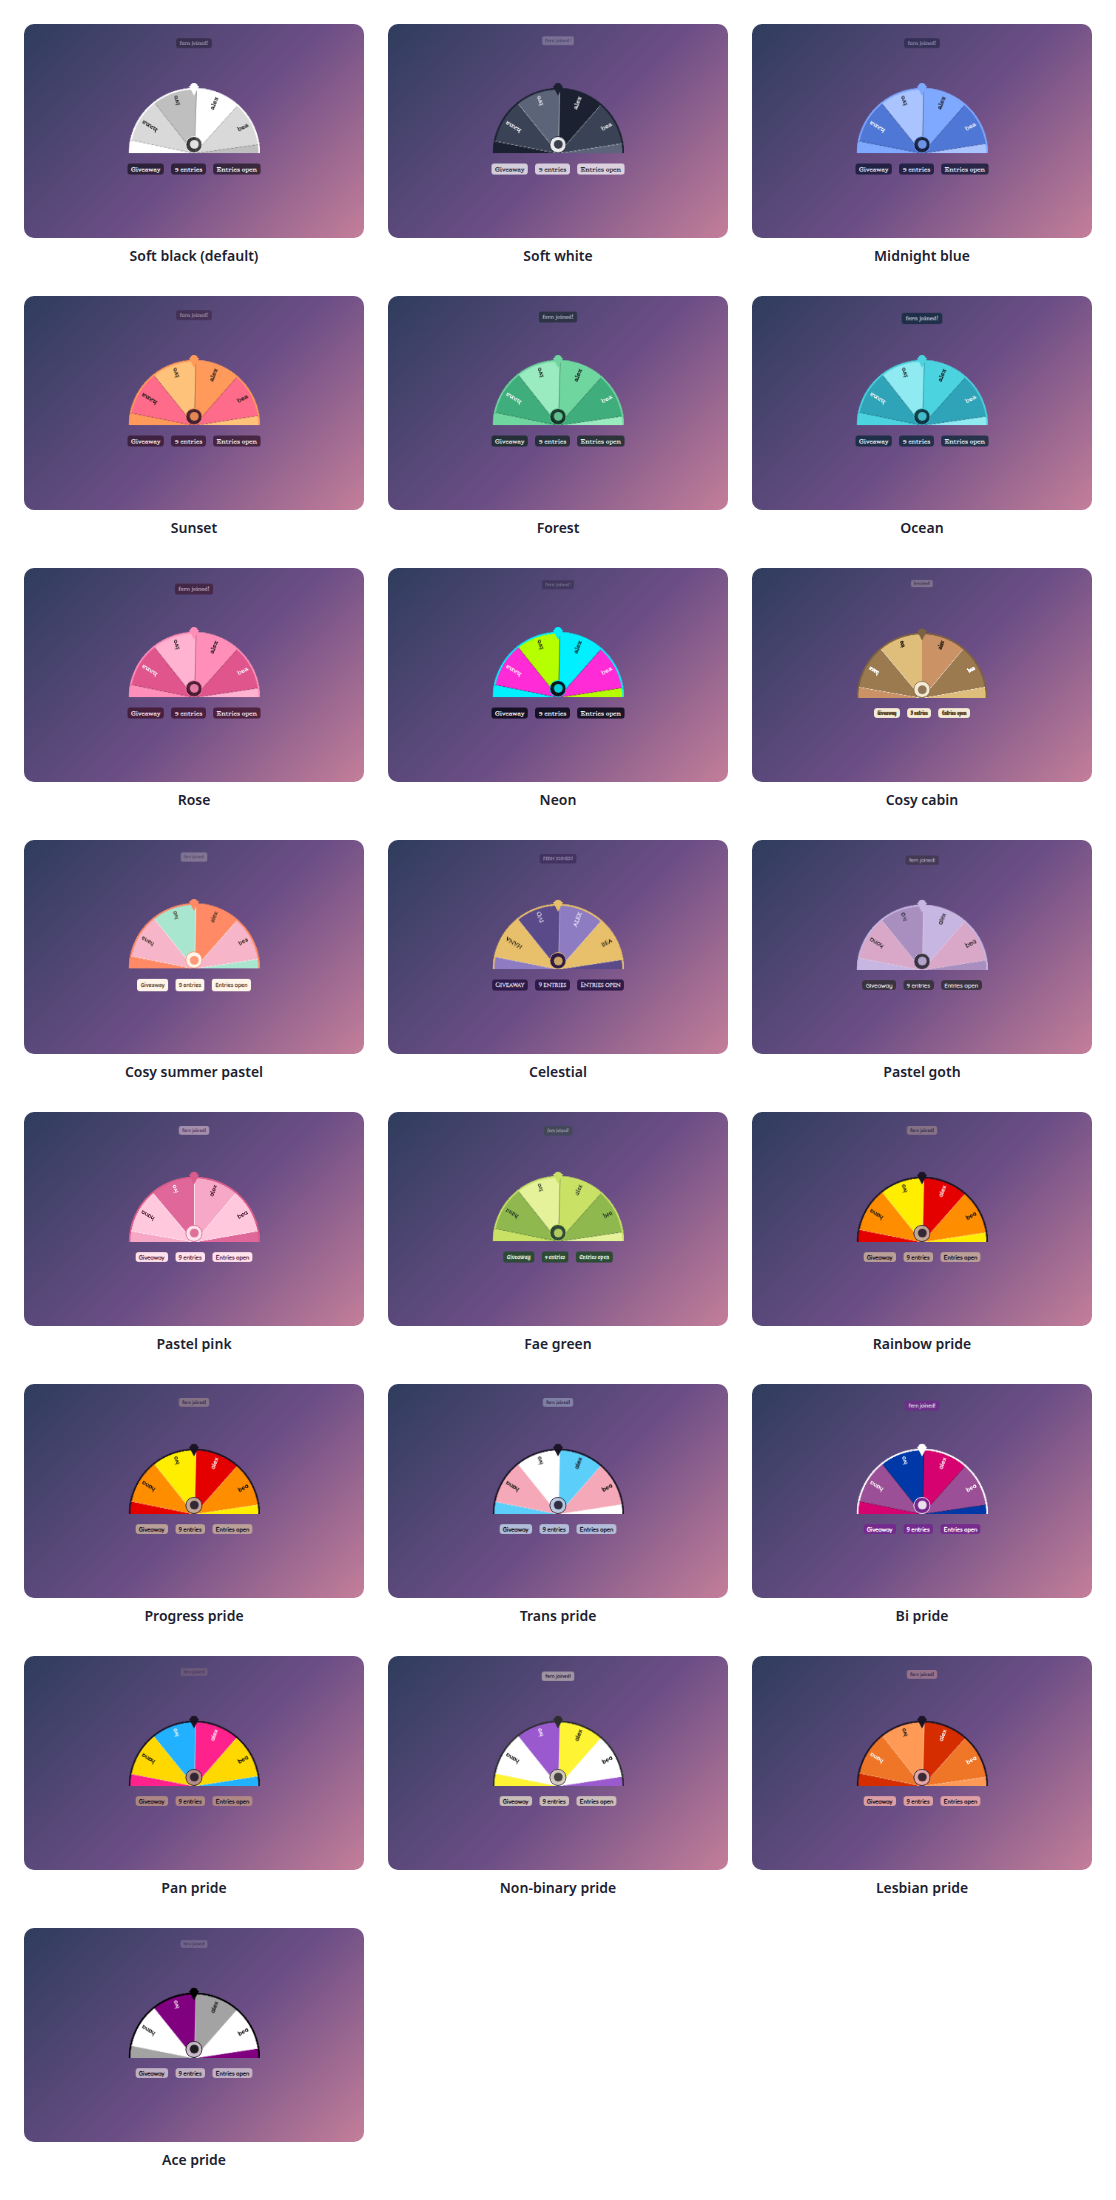
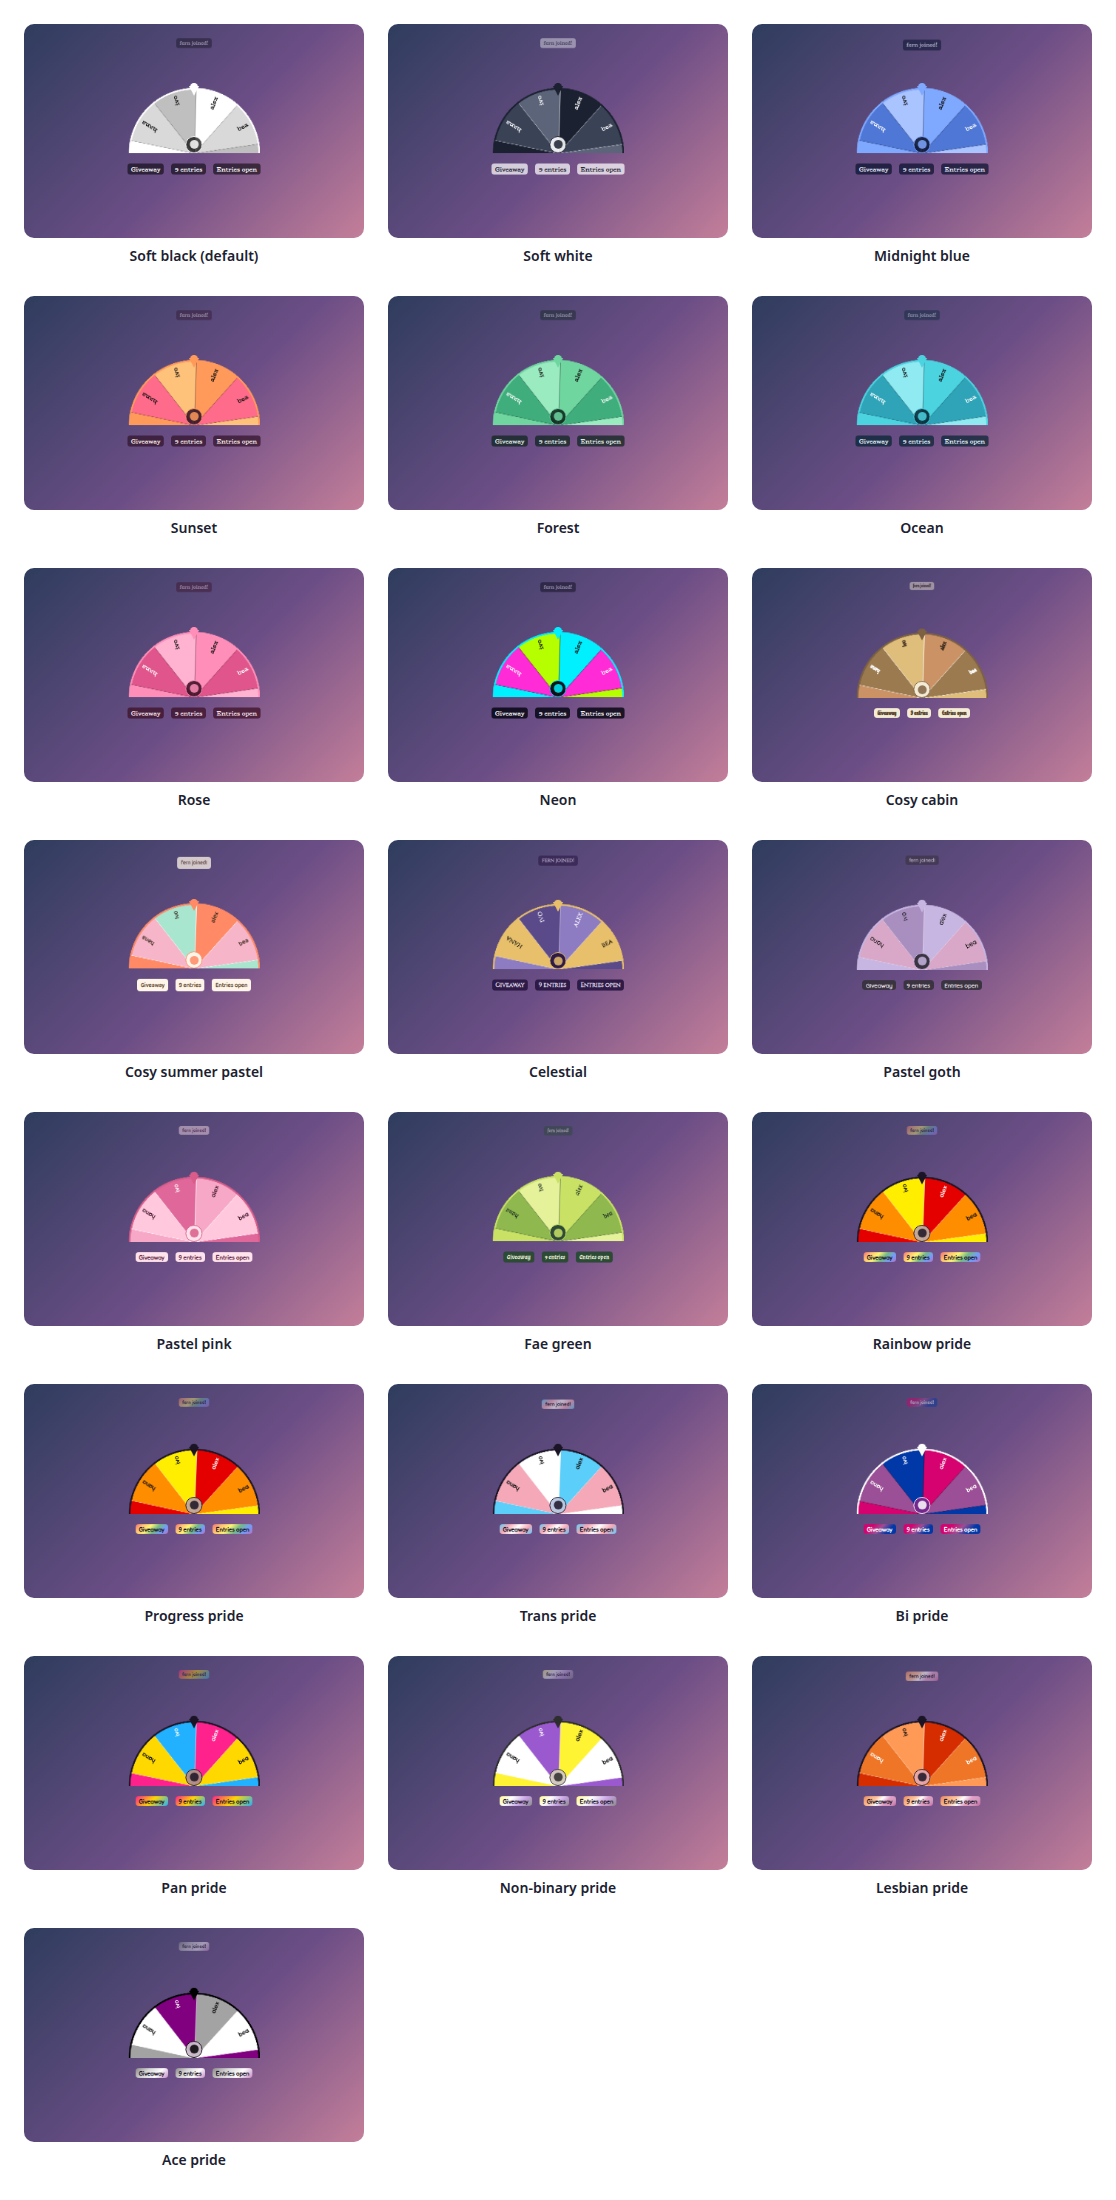
Put the pride flags behind the wheel's panels and on its goal bar
The pride presets already gave the wheel its flag as slices. Now the pills, the toast and the winner card wear the flag as their background, with the text kept readable, and the goal bar is striped like the flag with a thin outline so a pale stripe keeps its edge. Every other preset keeps its plain panels and its two colour goal bar, and the tests check both. The gallery shows it.

diff --git a/widget/widget.js b/widget/widget.js
@@ -107,48 +107,64 @@
       bg: "rgba(194, 168, 154, 0.9)", text: "#1A1426", accent: "#1A1426", pointer: "#1A1426",
       segs: ["#E50000", "#FF8D00", "#FFEE00", "#028121", "#004CFF", "#770088"],
       font: "Fredoka",
+      flag: ["#E50000", "#FF8D00", "#FFEE00", "#028121", "#004CFF", "#770088"],
+      bgimg: "linear-gradient(rgba(255, 255, 255, 0.45), rgba(255, 255, 255, 0.45)), linear-gradient(135deg, #E50000, #FF8D00, #FFEE00, #028121, #004CFF, #770088)",
       parts: {"pillBg": "rgba(194, 168, 154, 0.9)", "pill": "#1A1426", "toastBg": "rgba(194, 168, 154, 0.96)", "toast": "#1A1426", "cardBg": "rgba(194, 168, 154, 0.96)", "card": "#1A1426", "eyebrowBg": "#1A1426", "eyebrow": "#FFFFFF", "idle": "#1A1426", "goal": "#1A1426", "goalTrack": "rgba(26, 20, 38, 0.34)", "goalFrom": "#E50000", "goalTo": "#004CFF", "hub": "rgba(194, 168, 154, 0.96)", "hubRing": "#1A1426", "spent": "#B3123A", "refused": "#B3123A", "labelDark": "#111111", "labelLight": "#FFFFFF", "divider": "rgba(255, 255, 255, 0.45)", "border": "transparent"}
     },
     progress: {
       bg: "rgba(194, 168, 154, 0.9)", text: "#1A1426", accent: "#1A1426", pointer: "#1A1426",
       segs: ["#E50000", "#FF8D00", "#FFEE00", "#028121", "#004CFF", "#770088"],
       font: "Fredoka",
+      flag: ["#E50000", "#FF8D00", "#FFEE00", "#028121", "#004CFF", "#770088"],
+      bgimg: "linear-gradient(rgba(255, 255, 255, 0.45), rgba(255, 255, 255, 0.45)), linear-gradient(135deg, #E50000, #FF8D00, #FFEE00, #028121, #004CFF, #770088)",
       parts: {"pillBg": "rgba(194, 168, 154, 0.9)", "pill": "#1A1426", "toastBg": "rgba(194, 168, 154, 0.96)", "toast": "#1A1426", "cardBg": "rgba(194, 168, 154, 0.96)", "card": "#1A1426", "eyebrowBg": "#1A1426", "eyebrow": "#FFFFFF", "idle": "#1A1426", "goal": "#1A1426", "goalTrack": "rgba(26, 20, 38, 0.34)", "goalFrom": "#F5A9B8", "goalTo": "#5BCEFA", "hub": "rgba(194, 168, 154, 0.96)", "hubRing": "#1A1426", "spent": "#B3123A", "refused": "#B3123A", "labelDark": "#111111", "labelLight": "#FFFFFF", "divider": "rgba(255, 255, 255, 0.45)", "border": "transparent"}
     },
     trans: {
       bg: "rgba(185, 201, 225, 0.9)", text: "#1A1426", accent: "#1A1426", pointer: "#1A1426",
       segs: ["#5BCEFA", "#F5A9B8", "#FFFFFF", "#5BCEFA", "#F5A9B8", "#FFFFFF"],
       font: "Fredoka",
+      flag: ["#5BCEFA", "#F5A9B8", "#FFFFFF", "#F5A9B8", "#5BCEFA"],
+      bgimg: "linear-gradient(135deg, #5BCEFA, #F5A9B8, #FFFFFF, #F5A9B8, #5BCEFA)",
       parts: {"pillBg": "rgba(185, 201, 225, 0.9)", "pill": "#1A1426", "toastBg": "rgba(185, 201, 225, 0.96)", "toast": "#1A1426", "cardBg": "rgba(185, 201, 225, 0.96)", "card": "#1A1426", "eyebrowBg": "#1A1426", "eyebrow": "#FFFFFF", "idle": "#1A1426", "goal": "#1A1426", "goalTrack": "rgba(26, 20, 38, 0.34)", "goalFrom": "#5BCEFA", "goalTo": "#F5A9B8", "hub": "rgba(185, 201, 225, 0.96)", "hubRing": "#1A1426", "spent": "#B3123A", "refused": "#B3123A", "labelDark": "#111111", "labelLight": "#FFFFFF", "divider": "rgba(255, 255, 255, 0.45)", "border": "transparent"}
     },
     bi: {
       bg: "rgba(117, 39, 142, 0.9)", text: "#FFFFFF", accent: "#FFFFFF", pointer: "#FFFFFF",
       segs: ["#D60270", "#9B4F96", "#0038A8", "#D60270", "#9B4F96", "#0038A8"],
       font: "Fredoka",
+      flag: ["#D60270", "#D60270", "#9B4F96", "#0038A8", "#0038A8"],
+      bgimg: "linear-gradient(135deg, #D60270, #D60270, #9B4F96, #0038A8, #0038A8)",
       parts: {"pillBg": "rgba(117, 39, 142, 0.9)", "pill": "#FFFFFF", "toastBg": "rgba(117, 39, 142, 0.96)", "toast": "#FFFFFF", "cardBg": "rgba(117, 39, 142, 0.96)", "card": "#FFFFFF", "eyebrowBg": "#FFFFFF", "eyebrow": "#1A1426", "idle": "#FFFFFF", "goal": "#FFFFFF", "goalTrack": "rgba(255, 255, 255, 0.24)", "goalFrom": "#D60270", "goalTo": "#0038A8", "hub": "rgba(117, 39, 142, 0.96)", "hubRing": "#FFFFFF", "spent": "#FF6B6B", "refused": "#FF6B6B", "labelDark": "#111111", "labelLight": "#FFFFFF", "divider": "rgba(0, 0, 0, 0.3)", "border": "transparent"}
     },
     pan: {
       bg: "rgba(181, 142, 132, 0.9)", text: "#1A1426", accent: "#1A1426", pointer: "#1A1426",
       segs: ["#FF218C", "#FFD800", "#21B1FF", "#FF218C", "#FFD800", "#21B1FF"],
       font: "Fredoka",
+      flag: ["#FF218C", "#FFD800", "#21B1FF"],
+      bgimg: "linear-gradient(135deg, #FF218C, #FFD800, #21B1FF)",
       parts: {"pillBg": "rgba(181, 142, 132, 0.9)", "pill": "#1A1426", "toastBg": "rgba(181, 142, 132, 0.96)", "toast": "#1A1426", "cardBg": "rgba(181, 142, 132, 0.96)", "card": "#1A1426", "eyebrowBg": "#1A1426", "eyebrow": "#FFFFFF", "idle": "#1A1426", "goal": "#1A1426", "goalTrack": "rgba(26, 20, 38, 0.34)", "goalFrom": "#FF218C", "goalTo": "#21B1FF", "hub": "rgba(181, 142, 132, 0.96)", "hubRing": "#1A1426", "spent": "#B3123A", "refused": "#B3123A", "labelDark": "#111111", "labelLight": "#FFFFFF", "divider": "rgba(255, 255, 255, 0.45)", "border": "transparent"}
     },
     enby: {
       bg: "rgba(212, 202, 192, 0.9)", text: "#1A1426", accent: "#2D2D2D", pointer: "#2D2D2D",
       segs: ["#FFF433", "#FFFFFF", "#9B59D0", "#2D2D2D", "#FFF433", "#FFFFFF"],
       font: "Fredoka",
+      flag: ["#FFF433", "#FFFFFF", "#9B59D0", "#2D2D2D"],
+      bgimg: "linear-gradient(rgba(255, 255, 255, 0.45), rgba(255, 255, 255, 0.45)), linear-gradient(135deg, #FFF433, #FFFFFF, #9B59D0, #2D2D2D)",
       parts: {"pillBg": "rgba(212, 202, 192, 0.9)", "pill": "#1A1426", "toastBg": "rgba(212, 202, 192, 0.96)", "toast": "#1A1426", "cardBg": "rgba(212, 202, 192, 0.96)", "card": "#1A1426", "eyebrowBg": "#2D2D2D", "eyebrow": "#FFFFFF", "idle": "#1A1426", "goal": "#1A1426", "goalTrack": "rgba(26, 20, 38, 0.34)", "goalFrom": "#FFF433", "goalTo": "#9B59D0", "hub": "rgba(212, 202, 192, 0.96)", "hubRing": "#2D2D2D", "spent": "#B3123A", "refused": "#B3123A", "labelDark": "#111111", "labelLight": "#FFFFFF", "divider": "rgba(255, 255, 255, 0.45)", "border": "transparent"}
     },
     lesbian: {
       bg: "rgba(232, 167, 169, 0.9)", text: "#1A1426", accent: "#1A1426", pointer: "#1A1426",
       segs: ["#D52D00", "#EF7627", "#FF9A56", "#FFFFFF", "#D162A4", "#B55690"],
       font: "Fredoka",
+      flag: ["#D52D00", "#EF7627", "#FF9A56", "#FFFFFF", "#D162A4", "#B55690", "#A30262"],
+      bgimg: "linear-gradient(rgba(255, 255, 255, 0.40), rgba(255, 255, 255, 0.40)), linear-gradient(135deg, #D52D00, #EF7627, #FF9A56, #FFFFFF, #D162A4, #B55690, #A30262)",
       parts: {"pillBg": "rgba(232, 167, 169, 0.9)", "pill": "#1A1426", "toastBg": "rgba(232, 167, 169, 0.96)", "toast": "#1A1426", "cardBg": "rgba(232, 167, 169, 0.96)", "card": "#1A1426", "eyebrowBg": "#1A1426", "eyebrow": "#FFFFFF", "idle": "#1A1426", "goal": "#1A1426", "goalTrack": "rgba(26, 20, 38, 0.34)", "goalFrom": "#D52D00", "goalTo": "#A30262", "hub": "rgba(232, 167, 169, 0.96)", "hubRing": "#1A1426", "spent": "#B3123A", "refused": "#B3123A", "labelDark": "#111111", "labelLight": "#FFFFFF", "divider": "rgba(255, 255, 255, 0.45)", "border": "transparent"}
     },
     ace: {
       bg: "rgba(202, 187, 202, 0.9)", text: "#1A1426", accent: "#000000", pointer: "#000000",
       segs: ["#A3A3A3", "#FFFFFF", "#800080", "#000000", "#A3A3A3", "#FFFFFF"],
       font: "Fredoka",
+      flag: ["#000000", "#A3A3A3", "#FFFFFF", "#800080"],
+      bgimg: "linear-gradient(rgba(255, 255, 255, 0.55), rgba(255, 255, 255, 0.55)), linear-gradient(135deg, #000000, #A3A3A3, #FFFFFF, #800080)",
       parts: {"pillBg": "rgba(202, 187, 202, 0.9)", "pill": "#1A1426", "toastBg": "rgba(202, 187, 202, 0.96)", "toast": "#1A1426", "cardBg": "rgba(202, 187, 202, 0.96)", "card": "#1A1426", "eyebrowBg": "#000000", "eyebrow": "#FFFFFF", "idle": "#1A1426", "goal": "#1A1426", "goalTrack": "rgba(26, 20, 38, 0.34)", "goalFrom": "#A3A3A3", "goalTo": "#800080", "hub": "rgba(202, 187, 202, 0.96)", "hubRing": "#000000", "spent": "#B3123A", "refused": "#B3123A", "labelDark": "#111111", "labelLight": "#FFFFFF", "divider": "rgba(255, 255, 255, 0.45)", "border": "transparent"}
     }
   };
@@ -403,7 +419,7 @@
     Object.keys(over).forEach(function (k) { parts[k] = over[k]; });
     return {
       bg: p.bg, text: p.text, accent: p.accent, pointer: p.pointer,
-      segs: p.segs.slice(), font: p.font, parts: parts
+      segs: p.segs.slice(), font: p.font, parts: parts, bgimg: p.bgimg || "", flag: p.flag || null
     };
   }
 
@@ -422,6 +438,13 @@
   }
   if (typeof document !== "undefined" && document.fonts && typeof document.fonts.addEventListener === "function") {
     document.fonts.addEventListener("loadingdone", onFontsReady);
+  }
+
+  // A flag is a list of stripes, top to bottom. A bar can wear it as horizontal bands.
+  function flagGradient(stripes) {
+    var n = stripes.length, parts = [];
+    for (var i = 0; i < n; i++) parts.push(stripes[i] + " " + (i * 100 / n) + "% " + ((i + 1) * 100 / n) + "%");
+    return "linear-gradient(180deg, " + parts.join(", ") + ")";
   }
 
   function applyTheme() {
@@ -444,6 +467,10 @@
     set("--c-eyebrow-bg", P.eyebrowBg); set("--c-eyebrow", P.eyebrow);
     set("--c-idle", P.idle); set("--c-goal", P.goal); set("--c-goal-track", P.goalTrack);
     set("--c-goal-from", P.goalFrom); set("--c-goal-to", P.goalTo);
+    // A flag preset puts its flag behind the pills, the toast and the winner card, and stripes the goal bar.
+    set("--flag-img", t.bgimg || "none");
+    set("--goal-flag", t.flag ? flagGradient(t.flag) : "");
+    set("--flag-edge", t.flag ? "inset 0 0 0 1px rgba(20, 16, 38, 0.38)" : "none");
     set("--c-life-bg", P.pillBg); set("--c-life", P.pill);
     set("--c-spent", P.spent); set("--c-refused", P.refused);
     set("--c-hub", P.hub); set("--c-hub-ring", P.hubRing); set("--c-border", P.border);

diff --git a/test/test-widget.js b/test/test-widget.js
@@ -502,6 +502,13 @@ function ok(cond, msg) { if (cond) { pass++; console.log("  PASS " + msg); } els
     ok(S2["--text"] === EXPECT[key].text && S2["--accent"] === EXPECT[key].accent && S2["--bg"] === EXPECT[key].panel && S2["--font"].indexOf('"' + EXPECT[key].font + '"') !== -1,
       key + ": panel, text, accent and font match the shared table (" + S2["--text"] + ", " + S2["--accent"] + ")");
   }
+  console.log("\n[pride flags]");
+  load({ themePreset: "trans" }); await wait(5);
+  const FW = elements["wheel-app"].style;
+  ok(FW["--flag-img"] === "linear-gradient(135deg, #5BCEFA, #F5A9B8, #FFFFFF, #F5A9B8, #5BCEFA)", "the trans preset puts its flag behind the pills, toast and winner card (" + FW["--flag-img"] + ")");
+  ok(FW["--goal-flag"] === "linear-gradient(180deg, #5BCEFA 0% 20%, #F5A9B8 20% 40%, #FFFFFF 40% 60%, #F5A9B8 60% 80%, #5BCEFA 80% 100%)" && FW["--flag-edge"] === "inset 0 0 0 1px rgba(20, 16, 38, 0.38)", "and stripes the goal bar like its flag, outlined so the white stripe keeps its edge");
+  load({ themePreset: "glass" }); await wait(5);
+  ok(FW["--flag-img"] === "none" && FW["--goal-flag"] === "" && FW["--flag-edge"] === "none", "every other preset keeps its plain panels and its two colour goal bar");
   console.log("\n=== " + pass + " passed, " + fail + " failed ===");
   process.exit(fail ? 1 : 0);
 })();

diff --git a/widget/widget.css b/widget/widget.css
@@ -245,6 +245,7 @@
   left: 50%;
   z-index: 7;
   background: var(--c-toast-bg);
+  background-image: var(--flag-img, none);
   color: var(--c-toast);
   font-size: max(8px, calc(20 * var(--u) * var(--toast-scale)));
   font-weight: var(--toast-w);
@@ -289,6 +290,7 @@
   padding: calc(var(--pill-pad-v) * var(--u)) calc(var(--pill-pad-h) * var(--u));
   border-radius: calc(var(--pill-radius) * var(--u));
   background: var(--c-pill-bg);
+  background-image: var(--flag-img, none);
   color: var(--c-pill);
   box-shadow: var(--pill-shadow);
   text-shadow: var(--text-shadow);
@@ -351,6 +353,8 @@
   width: 0%;
   border-radius: 999px;
   background: linear-gradient(90deg, var(--c-goal-from), var(--c-goal-to));
+  background-image: var(--goal-flag, linear-gradient(90deg, var(--c-goal-from), var(--c-goal-to)));
+  box-shadow: var(--flag-edge, none);
   transition: width var(--goal-s) ease;
 }
 
@@ -378,6 +382,7 @@
   padding: calc(var(--card-pad-v) * var(--u)) calc(var(--card-pad-h) * var(--u));
   border-radius: calc(var(--card-radius) * var(--u));
   background: var(--c-card-bg);
+  background-image: var(--flag-img, none);
   color: var(--c-card);
   border: var(--card-border) solid var(--c-border);
   box-shadow: var(--card-shadow);
